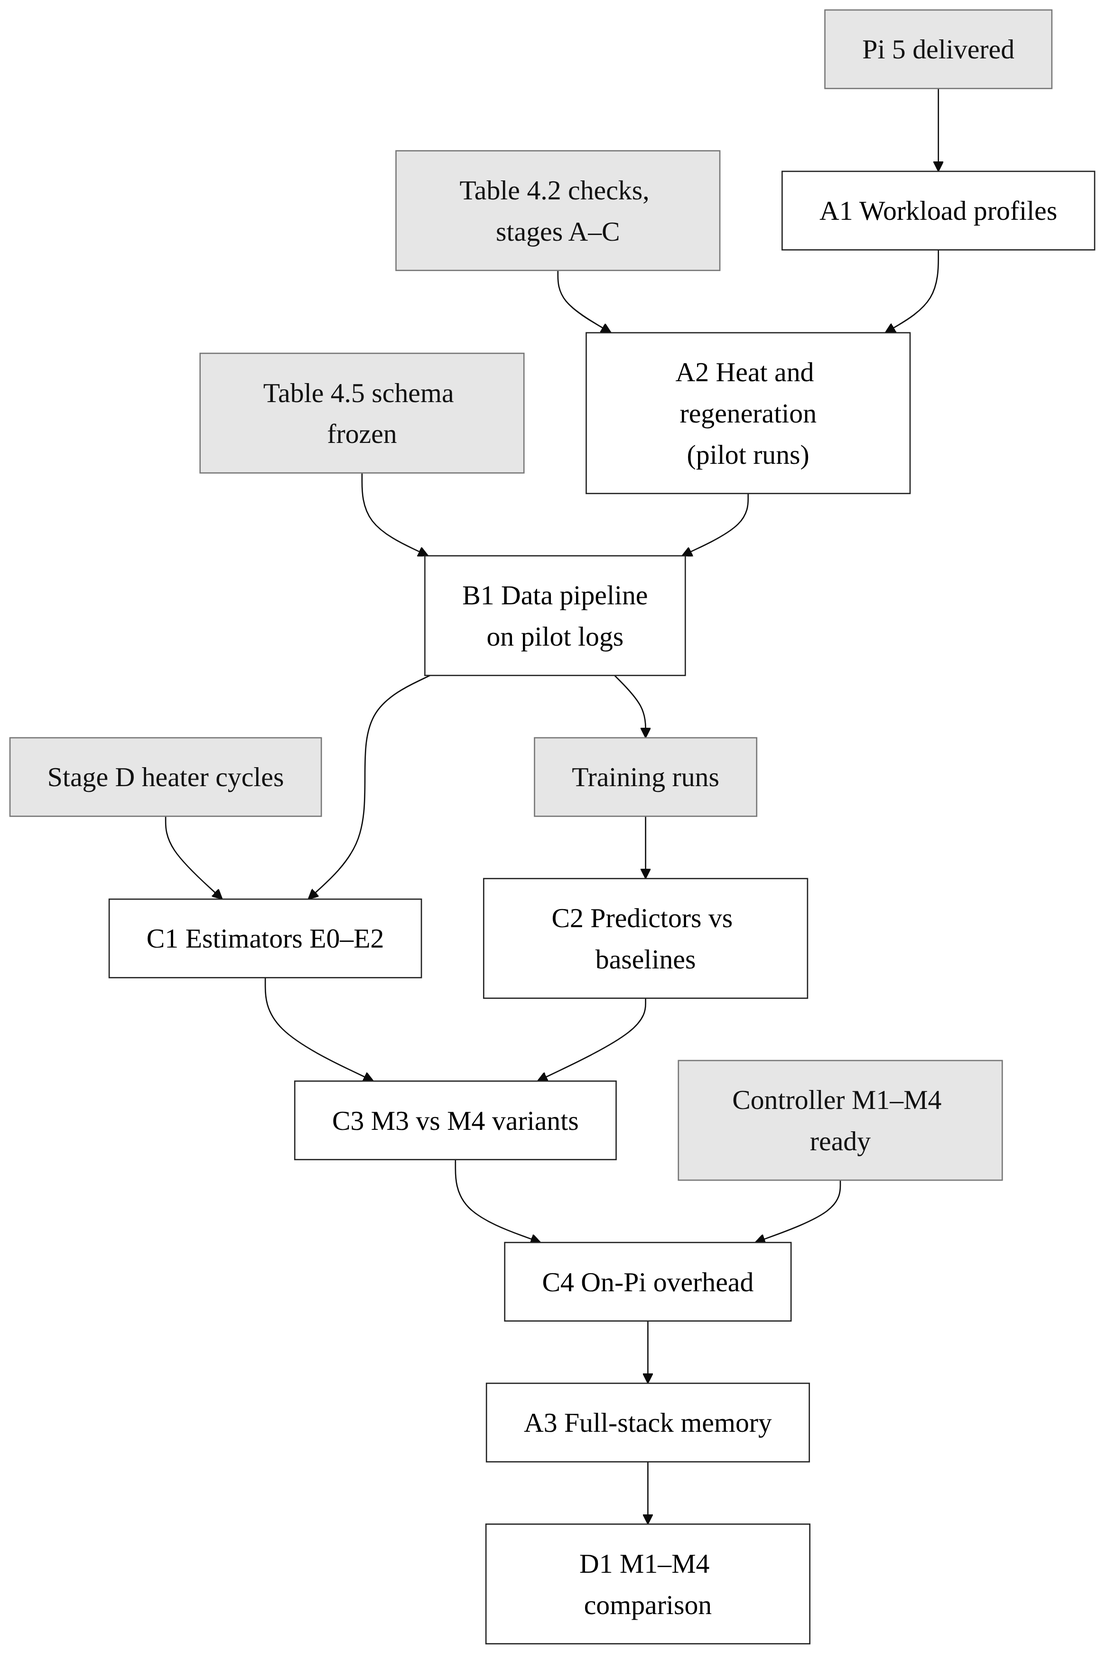
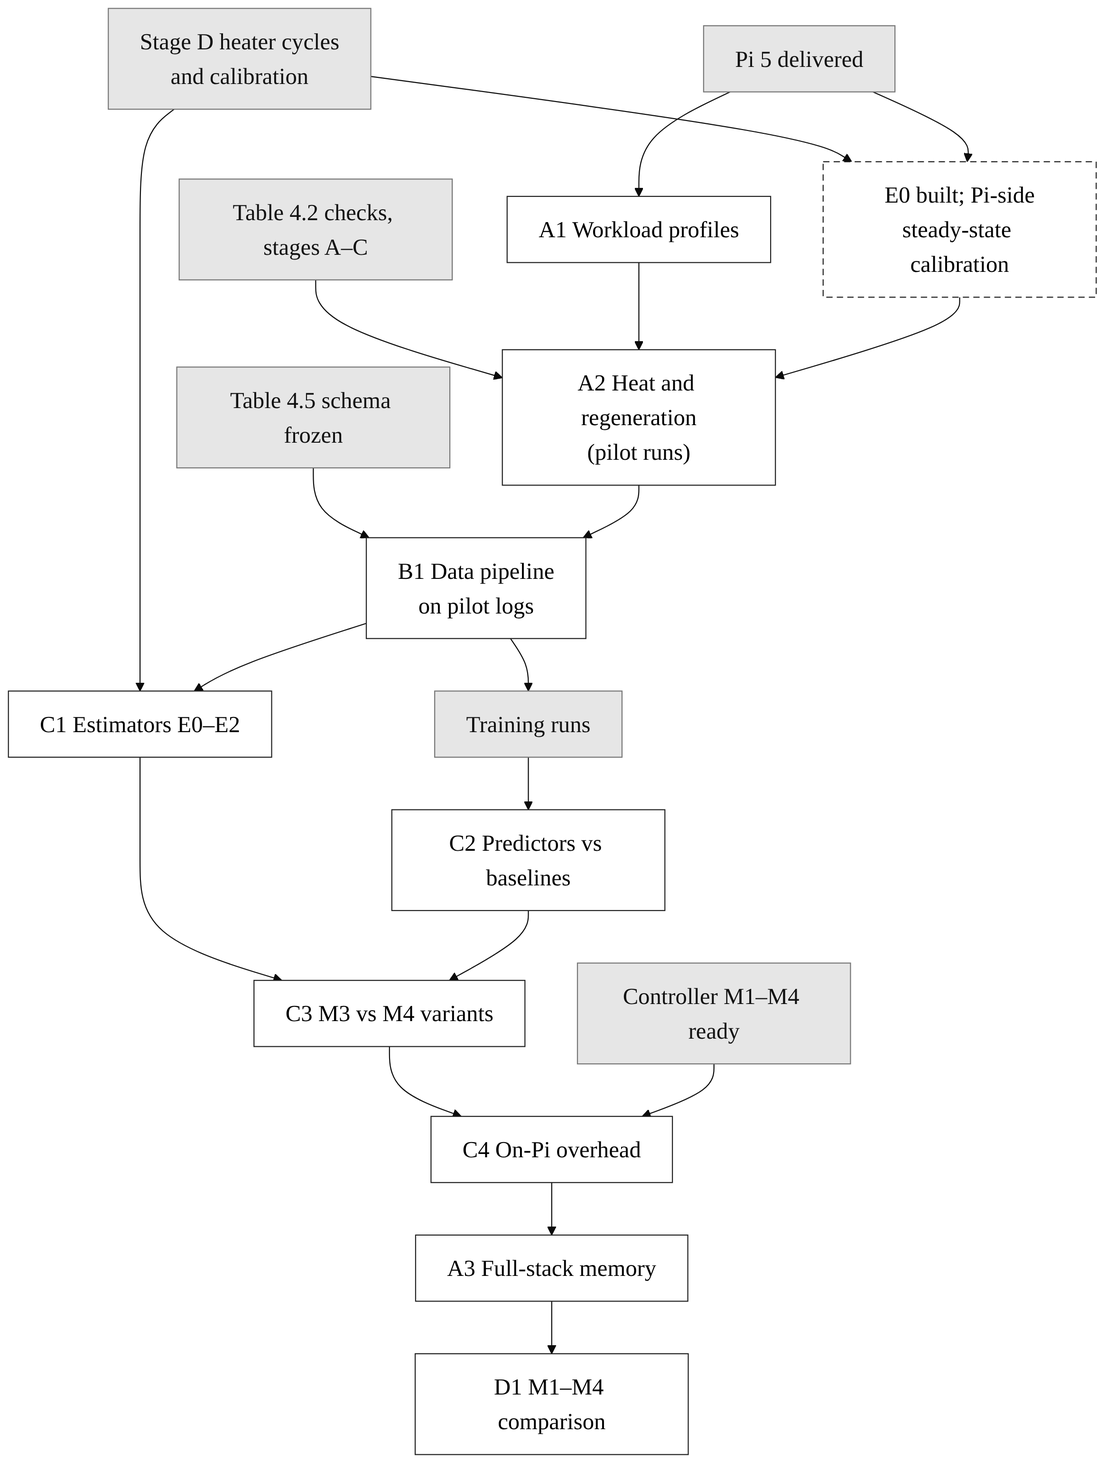
Third draft review: publication-time QoS join, request logging, sign-flip test on the mean, package file hashes, new figures

diff --git a/ml-pipeline/thermalml/metrics.py b/ml-pipeline/thermalml/metrics.py
@@ -47,38 +47,28 @@ def paired_bootstrap(diff: np.ndarray, resamples: int, level: float, seed: int) 
     return float(diff.mean()), float(np.quantile(means, a)), float(np.quantile(means, 1 - a))
 
 
-def signflip_wilcoxon(diff: np.ndarray) -> float:
-    """Two-sided exact p of the Wilcoxon signed-rank statistic, Pratt zero handling.
+def signflip_mean(diff: np.ndarray) -> float:
+    """Two-sided exact sign-flip (paired permutation) p value for the mean difference.
 
-    Ranks of |d| are taken over all differences, zeros included (average ranks for
-    ties); zero differences then contribute nothing, and the p value is the exact
-    share of the 2^m sign assignments of the m non-zero differences whose statistic
-    is at least as far from its centre as the observed one. With no zeros the
-    smallest possible p is 2 / 2^n.
+    The statistic is the mean of d itself, so the test answers the same question as
+    the reported estimate and cannot favour the other direction (unlike a signed-rank
+    statistic, whose rank sum can lie on the opposite side of the mean). Zero
+    differences contribute nothing to any sign assignment; the p value is the exact
+    share of the 2^m sign assignments of the m non-zero differences whose |mean| is at
+    least the observed |mean|. With no zeros the smallest possible p is 2 / 2^n; with
+    all differences zero p = 1 (no difference).
     """
     d = np.asarray(diff, float)
-    a = np.abs(d)
-    order = np.argsort(a, kind="mergesort")
-    ranks = np.empty(len(a))
-    i = 0
-    while i < len(a):
-        j = i
-        while j + 1 < len(a) and a[order[j + 1]] == a[order[i]]:
-            j += 1
-        ranks[order[i:j + 1]] = (i + j) / 2 + 1
-        i = j + 1
-    nz = d != 0
-    r = ranks[nz]
-    m = len(r)
+    nz = d[d != 0]
+    m = len(nz)
     if m == 0:
         return 1.0
     if m > 20:
         raise ValueError("more than 20 non-zero differences: exact enumeration not implemented")
-    centre = r.sum() / 2
-    obs = abs(r[d[nz] > 0].sum() - centre)
-    signs = ((np.arange(2 ** m)[:, None] >> np.arange(m)) & 1).astype(float)
-    stats = np.abs(signs @ r - centre)
-    return float(np.mean(stats >= obs - 1e-12))
+    signs = 1 - 2 * ((np.arange(2 ** m)[:, None] >> np.arange(m)) & 1)
+    stats = np.abs(signs @ nz)
+    obs = abs(nz.sum())
+    return float(np.mean(stats >= obs - 1e-9 * max(1.0, obs)))
 
 
 def compare_variants(per_run: pd.DataFrame, model: str, horizon_s: float, window_s: float,
@@ -86,9 +76,9 @@ def compare_variants(per_run: pd.DataFrame, model: str, horizon_s: float, window
     """Run-by-run temperature-only minus PCM-aware error on the same runs (Part III 4.3.3.1 B).
 
     Positive values mean the PCM-aware (M4) variant has lower error. An improvement is
-    claimed only if the whole interval is above zero and the exact sign-flip Wilcoxon
-    test agrees (p < 1 - level), because a percentile interval over few runs can be
-    too narrow to rely on alone.
+    claimed only if the whole interval is above zero, the mean is above zero and the
+    exact sign-flip test of that mean agrees (p < 1 - level), because a percentile
+    interval over few runs can be too narrow to rely on alone.
     """
     sub = per_run[(per_run.model == model) & (per_run.horizon_s == horizon_s) & (per_run.window_s == window_s)]
     piv = sub.pivot_table(index="run_id", columns="variant", values=metric)
@@ -97,7 +87,7 @@ def compare_variants(per_run: pd.DataFrame, model: str, horizon_s: float, window
     if len(d) < 2:
         raise ValueError("need at least two runs scored with both variants")
     mean, lo, hi = paired_bootstrap(d, resamples, level, seed)
-    p = signflip_wilcoxon(d)
+    p = signflip_mean(d)
     return {"model": model, "horizon_s": horizon_s, "window_s": window_s, "metric": metric, "runs": len(d),
             "mean_diff": mean, "ci_low": lo, "ci_high": hi, "confidence_level": level,
             "per_run_spread_std": float(np.std(d, ddof=1)), "signflip_p": p,

diff --git a/ai-workload/edge_workload.py b/ai-workload/edge_workload.py
@@ -26,7 +26,12 @@ Output files per run (in --out-dir)
   <run_id>_meta.json    run configuration, versions, dataset and model hashes
   <run_id>_summary.json totals at the end
 
-Join to the Table 4.5 CSV on run_id and t_unix (seconds, same Pi clock).
+Join to the Table 4.5 CSV causally on run_id and published_t_unix (seconds, same
+Pi clock): t_unix is the end of the window, published_t_unix the time after the
+row's QoS was published (QoS file replaced, or CSV row about to be written when
+no QoS file is used), so a window counts only from when the controller could read
+it. request_t_unix is the time of the request in force (control-file
+requested_t_unix or schedule time), tying each applied profile to its request.
 Column mapping: workload_profile -> workload_profile, inference_fps ->
 inference_fps, inference_latency_ms -> inference_latency_ms. Accuracy stays
 in the sidecar only. Missing values are written empty, never as 0.
@@ -57,6 +62,7 @@ SIDECAR_FIELDS = [
     "model", "res", "rate_hz", "threads",
     "n_inf", "inference_fps", "inference_latency_ms", "lat_p50_ms", "lat_p95_ms", "lat_max_ms",
     "n_correct", "acc_win", "cpu_proc_pct", "cpu_sys_pct", "rss_mb", "mem_used_mb", "mem_avail_mb", "pcm_init",
+    "request_t_unix", "published_t_unix",
 ]
 
 
@@ -217,6 +223,7 @@ def cmd_run(args):
 
     event("start", start_profile)
     active, requested = None, start_profile
+    request_t = t_start
     changed_t = None
     ctrl_mtime = None
     sched_i = 0
@@ -238,18 +245,21 @@ def cmd_run(args):
             t_rel = win_start - t_start
             while sched_i < len(schedule) and schedule[sched_i]["t"] <= t_rel:
                 requested = schedule[sched_i]["profile"]
+                request_t = t_start + schedule[sched_i]["t"]
                 sched_i += 1
             if args.control and os.path.exists(args.control):
                 m = os.stat(args.control).st_mtime_ns
                 if m != ctrl_mtime:
                     ctrl_mtime = m
                     try:
-                        req = json.load(open(args.control))["profile"]
+                        cj = json.load(open(args.control))
+                        req = cj["profile"]
                         if req not in profiles:
                             raise KeyError(req)
                         if profiles[req].get("needs_rate"):
                             raise ValueError(f"{req} has no measured rate yet")
                         requested = req
+                        request_t = cj.get("requested_t_unix", time.time())
                     except (OSError, ValueError, KeyError, TypeError) as e:
                         event("control_error", f"{type(e).__name__}: {e}")
             transition = 0
@@ -310,14 +320,15 @@ def cmd_run(args):
                 cpu_proc_pct=fmt(proc.cpu_percent(None), 1), cpu_sys_pct=fmt(psutil.cpu_percent(None), 1),
                 rss_mb=fmt(proc.memory_info().rss / 2**20, 1),
                 mem_used_mb=fmt((mem.total - mem.available) / 2**20, 1), mem_avail_mb=fmt(mem.available / 2**20, 1),
-                pcm_init=args.pcm_init,
+                pcm_init=args.pcm_init, request_t_unix=fmt(request_t, 3),
             )
-            w.writerow(row)
-            fcsv.flush()
             if args.qos_file:
                 atomic_write_json(args.qos_file, {k: row[k] for k in (
                     "run_id", "t_unix", "workload_profile", "profile_changed_t_unix", "transition",
-                    "inference_fps", "inference_latency_ms", "lat_p95_ms", "n_inf")})
+                    "inference_fps", "inference_latency_ms", "lat_p95_ms", "n_inf", "request_t_unix")})
+            row["published_t_unix"] = fmt(time.time(), 3)   # taken after publication: never early
+            w.writerow(row)
+            fcsv.flush()
             win_start, win_end = t_end, math.floor(t_end) + 1.0
     finally:
         event("stop", "signal" if _stop else "duration reached")

diff --git a/ai-workload/merge_logs.py b/ai-workload/merge_logs.py
@@ -3,12 +3,15 @@
 merge_logs.py - fill the AI fields of the Table 4.5 main CSV from the AI sidecar.
 
 Causal join (no future information): for each main-CSV row with timestamp T,
-the sidecar row of the same run_id used is the one whose window ENDED most
-recently at or before T, and only if it ended less than --tol seconds before T
-(default 1.0 s, the Part III control period). This is the "preceding-interval
-QoS" of Part III 4.3.3.2. Both logs use the shared Pi clock (UTC).
-  * A sidecar window that ends after T is never used, even by a fraction of a second.
-  * Two sidecar rows of one run with the same end time are an error, not averaged.
+the sidecar row of the same run_id used is the one PUBLISHED most recently at or
+before T (published_t_unix: after the window's QoS was published, so the
+controller could have read it), and only if it was published less than --tol
+seconds before T (default 1.0 s, the Part III control period). This is the
+"preceding-interval QoS" of Part III 4.3.3.2. Both logs use the shared Pi clock (UTC).
+  * A window published after T is never used, even if the window itself ended before T.
+  * Logs written before published_t_unix existed fall back to the window end
+    (t_unix), with a warning.
+  * Two sidecar rows of one run with the same publication time are an error, not averaged.
   * Rows are never matched across runs.
   * A main row with no window ending within --tol before it gets empty values, never 0.
 Filled columns:
@@ -24,6 +27,7 @@ import argparse
 import bisect
 import csv
 import datetime as dt
+import sys
 
 MAP = {"workload_profile": "workload_profile",
        "inference_fps": "inference_fps",
@@ -45,19 +49,23 @@ def main():
     ap.add_argument("--time-col", default="timestamp", help="ISO 8601 column in the main CSV")
     ap.add_argument("--overwrite", action="store_true")
     ap.add_argument("--tol", type=float, default=1.0,
-                    help="max age (s) of the AI window end before the main-row time (Part III control period)")
+                    help="max age (s) of the AI window's publication before the main-row time (Part III control period)")
     args = ap.parse_args()
 
     side = {}
     for path in args.ai_csv:
         with open(path) as f:
             for r in csv.DictReader(f):
-                side.setdefault(r["run_id"], []).append((float(r["t_unix"]), r))
+                key = r.get("published_t_unix") or ""
+                if not key:
+                    print(f"warning: {path} has no published_t_unix; using window end t_unix", file=sys.stderr)
+                    key = r["t_unix"]
+                side.setdefault(r["run_id"], []).append((float(key), r))
     for rid, lst in side.items():
         lst.sort(key=lambda x: x[0])
         for (t0, _), (t1, _) in zip(lst, lst[1:]):
             if t1 == t0:
-                raise ValueError(f"run {rid}: two AI-log rows end at t_unix={t0}")
+                raise ValueError(f"run {rid}: two AI-log rows published at {t0}")
     ends = {rid: [t for t, _ in lst] for rid, lst in side.items()}
 
     with open(args.main_csv) as f:
@@ -71,7 +79,7 @@ def main():
             T = to_unix(r[args.time_col])
             s = None
             if r["run_id"] in side:
-                i = bisect.bisect_right(ends[r["run_id"]], T) - 1   # last window ending at or before T
+                i = bisect.bisect_right(ends[r["run_id"]], T) - 1   # last window published at or before T
                 if i >= 0 and T - ends[r["run_id"]][i] < args.tol:
                     s = side[r["run_id"]][i][1]
             for dst, src in MAP.items():

diff --git a/ml-pipeline/tests/test_core.py b/ml-pipeline/tests/test_core.py
@@ -45,13 +45,28 @@ def test_compare_variants_sign():
     assert c["mean_diff"] > 0 and c["signflip_p"] == pytest.approx(2 / 64) and c["improvement_claimed"]
 
 
-def test_signflip_wilcoxon_exact():
+def test_signflip_mean_exact():
     # all positive, no zeros: p = 2 / 2^n
-    assert metrics.signflip_wilcoxon(np.array([1.0, 2.0, 3.0, 4.0, 5.0, 6.0])) == pytest.approx(2 / 64)
-    assert metrics.signflip_wilcoxon(np.array([1.0, 2.0, 3.0, 4.0, 5.0])) == pytest.approx(2 / 32)
-    assert metrics.signflip_wilcoxon(np.zeros(4)) == 1.0
-    # symmetric data give p = 1
-    assert metrics.signflip_wilcoxon(np.array([-1.0, 1.0])) == 1.0
+    assert metrics.signflip_mean(np.array([1.0, 2.0, 3.0, 4.0, 5.0, 6.0])) == pytest.approx(2 / 64)
+    assert metrics.signflip_mean(np.array([1.0, 2.0, 3.0, 4.0, 5.0])) == pytest.approx(2 / 32)
+    # zeros drop out: [0, -1, -1, -1, -1, -1] has five effective signs, p = 2/32
+    assert metrics.signflip_mean(np.array([0.0, -1, -1, -1, -1, -1])) == pytest.approx(2 / 32)
+    assert metrics.signflip_mean(np.zeros(4)) == 1.0
+    assert metrics.signflip_mean(np.array([-1.0, 1.0])) == 1.0
+
+
+def test_signflip_mean_follows_the_mean_direction():
+    # many small gains and a few large losses: the mean is harmful (negative), so a
+    # small p here cannot be read as evidence for the beneficial direction
+    d = np.array([1.0] * 16 + [-60.0] * 4)
+    assert d.mean() < 0
+    c_rows = []
+    for i, v in enumerate(d):
+        c_rows += [dict(run_id=f"r{i}", model="m", horizon_s=10, window_s=30, variant="temperature_only", mae_c=1.0 + v),
+                   dict(run_id=f"r{i}", model="m", horizon_s=10, window_s=30, variant="pcm_aware", mae_c=1.0)]
+    import pandas as pd_
+    c = metrics.compare_variants(pd_.DataFrame(c_rows), "m", 10, 30, 500, 0.95, 0)
+    assert c["mean_diff"] < 0 and not c["improvement_claimed"]
 
 
 def test_compare_variants_needs_exact_test_too():

diff --git a/ml-pipeline/thermalml/package.py b/ml-pipeline/thermalml/package.py
@@ -3,11 +3,13 @@
 Each package folder holds the model file and a metadata.json with: ordered feature
 list, scaler parameters, window length, sampling period, horizon and variant
 (predictors), version string, training run IDs, split-manifest hash, library
-versions, and validation / test metrics. models/model_metadata.json indexes them.
+versions, SHA-256 of every shipped file, and validation / test metrics.
+models/model_metadata.json indexes them.
 """
 from __future__ import annotations
 
 import datetime as dt
+import hashlib
 import json
 import platform
 from pathlib import Path
@@ -29,6 +31,9 @@ def write_package(models_dir: Path, name: str, meta: dict) -> Path:
     meta = dict(meta)
     meta.setdefault("version", f"{name}-{dt.datetime.now(dt.timezone.utc).strftime('%Y%m%dT%H%M%SZ')}")
     meta["library_versions"] = library_versions()
+    # pin the shipped files: the Pi-side parity check compares these hashes first
+    meta["file_sha256"] = {f.name: hashlib.sha256(f.read_bytes()).hexdigest()
+                           for f in sorted(folder.iterdir()) if f.is_file() and f.name != "metadata.json"}
     (folder / "metadata.json").write_text(json.dumps(meta, indent=2, default=float))
     index_path = Path(models_dir) / "model_metadata.json"
     index = json.loads(index_path.read_text()) if index_path.exists() else {"packages": {}}

diff --git a/ai-workload/tests/test_merge_logs.py b/ai-workload/tests/test_merge_logs.py
@@ -49,3 +49,15 @@ def test_duplicate_window_end_is_an_error(tmp_path):
     p, _ = _run(tmp_path, [["R1", "1970-01-01T00:01:40.200+00:00"]],
                 [["R1", "99.9", "balanced", "1", "1"], ["R1", "99.9", "balanced", "1", "1"]])
     assert p.returncode != 0 and "two AI-log rows" in p.stderr
+
+
+def test_window_published_after_the_row_is_not_used(tmp_path):
+    # window ends at 100.0 (before the row at 100.2) but is published only at 100.3:
+    # the controller could not have read it, so the earlier window is used
+    m, a, o = tmp_path / "main.csv", tmp_path / "ai.csv", tmp_path / "out.csv"
+    _write(m, ["run_id", "timestamp"], [["R1", "1970-01-01T00:01:40.200+00:00"]])
+    _write(a, ["run_id", "t_unix", "published_t_unix", "workload_profile", "inference_fps", "inference_latency_ms"],
+           [["R1", "99.0", "99.3", "balanced", "1", "1"], ["R1", "100.0", "100.3", "high_performance", "2", "2"]])
+    p = subprocess.run([sys.executable, SCRIPT, str(m), str(a), "-o", str(o)], capture_output=True, text=True)
+    assert p.returncode == 0, p.stderr
+    assert list(csv.DictReader(open(o)))[0]["workload_profile"] == "balanced"

diff --git a/ai-workload/tests/test_edge_workload.py b/ai-workload/tests/test_edge_workload.py
@@ -103,6 +103,12 @@ def test_schedule_control_file_and_log_format(tmp_path, tmp_profiles):
     assert steady, "no steady reduced_load windows"
     for x in steady:
         assert float(x["inference_fps"]) <= rate * 1.15 + 1
+    # each row is published after its window ends, and names the request in force
+    for x in r:
+        assert float(x["published_t_unix"]) >= float(x["t_unix"])
+        assert x["request_t_unix"] != ""
+    last = [x for x in r if x["workload_profile"] == "reduced_load"][-1]
+    assert abs(float(last["request_t_unix"]) - json.load(open(ctrl))["requested_t_unix"]) < 1e-3
     q = json.load(open(qos))
     assert q["run_id"] == "TEST1" and q["workload_profile"] == "reduced_load"
     meta = json.load(open(tmp_path / "TEST1_meta.json"))

diff --git a/ml-pipeline/tests/test_end_to_end.py b/ml-pipeline/tests/test_end_to_end.py
@@ -86,6 +86,7 @@ def test_full_pipeline(tmp_path):
     for pkg in sel["package"]:
         meta = json.loads((tmp_path / "models" / pkg / "metadata.json").read_text())
         assert meta["split_manifest_sha256"] and meta["feature_list"]
+        assert meta["model_file"] in meta["file_sha256"]
         if "onnx_check" in meta:
             assert meta["onnx_check"]["max_abs_diff_c"] < 1e-4
     e2 = json.loads((tmp_path / "models/estimator_E2/metadata.json").read_text())

diff --git a/ml-pipeline/README.md b/ml-pipeline/README.md
@@ -22,7 +22,7 @@ Phase 4 is not built here. That covers controller integration and the M1–M4 / 
 | Raw T1–T3 never enter the predictor; only `pcm_capacity_est` in the PCM-aware variant | Part III 4.3.3.1 B, 4.3.3.2 | The predictor feature list is fixed in config. The M4 variant adds only the estimator output, applied offline |
 | Learned estimators exclude `soc_temp_c`, `input_power_w` and the E0 output | Part III 4.3.3.1 A | The estimator feature builder has no access to them |
 | Estimator errors in points of z, per test cycle; keep E2 only if it beats E1 by more than the per-cycle spread | Part III 4.3.3.1 A, C | `estimators_cli test` writes the per-cycle table and the rule's outcome |
-| Model packages with feature list, scaler, W, H, variant, version, run IDs, manifest hash, library versions, metrics | Part III 4.3.1.2, 4.3.3.1 C | Each package is a folder plus `metadata.json`, indexed by `models/model_metadata.json` |
+| Model packages with feature list, scaler, W, H, variant, version, run IDs, manifest hash, library versions, metrics | Part III 4.3.1.2, 4.3.3.1 C | Each package is a folder plus `metadata.json` (with `file_sha256`, the SHA-256 of every file in the folder), indexed by `models/model_metadata.json` |
 | Prediction errors are reported per run, then summarized | Part III 4.3.3.1 C | Results go in `results/evaluation_metrics.csv` (one row per run) and the summary files |
 | M3 and M4 use the same model type, primary horizon and window | Part III 4.3.3.2 | `predictors train` picks one window per model for both variants: the one whose best settings give the lowest validation RMSE averaged over the variants; each variant then takes its best setting at that window |
 | Compared errors use the same target instances | Fair comparison across windows and M3/M4 variants | Validation and test scoring keep only the origins eligible for every compared window and variant (`predictors.common_origins`); each setting's own eligible count stays in `coverage.csv` |
@@ -38,7 +38,7 @@ thermalml/
   models/baselines.py  persistence, linear trend
   models/xgb.py        XGBoost predictor
   models/rnn.py        GRU / LSTM predictor, training with early stopping, ONNX export
-  metrics.py           MAE, RMSE, per-run tables, paired bootstrap and exact sign-flip Wilcoxon test for the M3/M4 variants
+  metrics.py           MAE, RMSE, per-run tables, paired bootstrap and exact sign-flip test on the mean difference for the M3/M4 variants
   predictors.py        CLI: train, loro, test
   estimators/calibration.py   calibration package, rig loss, Euse and reference z (Part III 4.2.5 stage D)
   estimators/e0.py            E0 energy balance with endpoint re-anchoring and drift log
@@ -120,7 +120,7 @@ python -m thermalml.bench --run data/runs/<run_id>.csv --packages <package> [<pa
 | `results/validation_summary.csv`, `results/test_summary.csv` | Mean and spread across runs |
 | `results/coverage.csv` | Eligible rows per run, after each filtering step |
 | `results/selection.csv` | Selected setting per model and variant |
-| `results/variant_comparison.csv` | Per-run temperature-only minus PCM-aware error, with the bootstrap interval and the exact sign-flip p; an improvement needs both |
+| `results/variant_comparison.csv` | Per-run temperature-only minus PCM-aware error, with the bootstrap interval and the exact sign-flip p on the mean; an improvement needs the interval above zero and p < 0.05 with the mean above zero |
 | `results/loro_stability.csv` | Leave-one-run-out errors of the selected settings |
 | `results/estimator_validation.csv`, `results/estimator_test.csv`, `results/estimator_E2_vs_E1.json` | Estimator errors per cycle and the E2 rule |
 | `results/e0_drift.csv` | Each E0 re-anchoring and its jump |

diff --git a/ai-workload/README.md b/ai-workload/README.md
@@ -65,8 +65,12 @@ There is one row per wall-clock second. Each window ends just after a whole seco
 | `cpu_proc_pct`, `cpu_sys_pct` | Process CPU (100 = one core) and system CPU |
 | `rss_mb`, `mem_used_mb`, `mem_avail_mb` | Process and system memory |
 | `pcm_init` | Initial PCM condition given at start |
+| `request_t_unix` | Time of the request in force: `requested_t_unix` from the control file, or the schedule time |
+| `published_t_unix` | Time taken after this window's QoS was published (QoS file replaced; or just before the CSV row is written when no QoS file is used) |
 
-Missing values are empty, never 0. `merge_logs.py` matches each main-CSV row to the AI window that ended most recently at or before the row time, and less than one control period (1 s) before it, so no AI value from after the row time is ever used. Duplicate window end times are an error, and rows are never matched across runs.
+Missing values are empty, never 0. `merge_logs.py` matches each main-CSV row to the AI row of the same run that was **published** most recently at or before the row time, and less than one control period (1 s) before it, so no AI value that the controller could not yet have read is used. Logs without `published_t_unix` fall back to `t_unix` with a warning. Duplicate publication times are an error, and rows are never matched across runs.
+
+The control file holds the latest desired state, not a queue: a request overwritten before the next 1 s read is never applied, so the controller should log every request it writes. Rejected requests go to the events log. Profile changes take effect only at a window boundary, so no window mixes two profiles; the first window after a change carries the warm-up and has `transition = 1`. The controller should also log the `t_unix` of each QoS window it consumes, so the offline join can be compared with the live decision input.
 
 ## Tests
 
